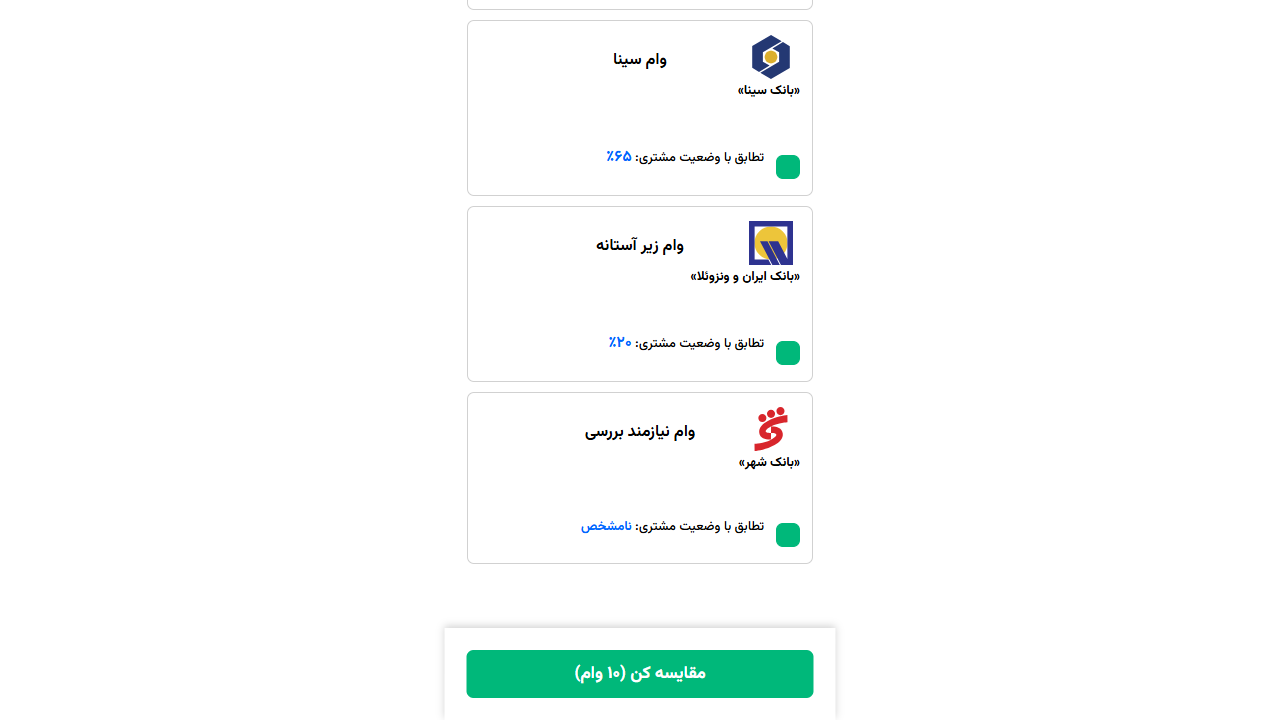
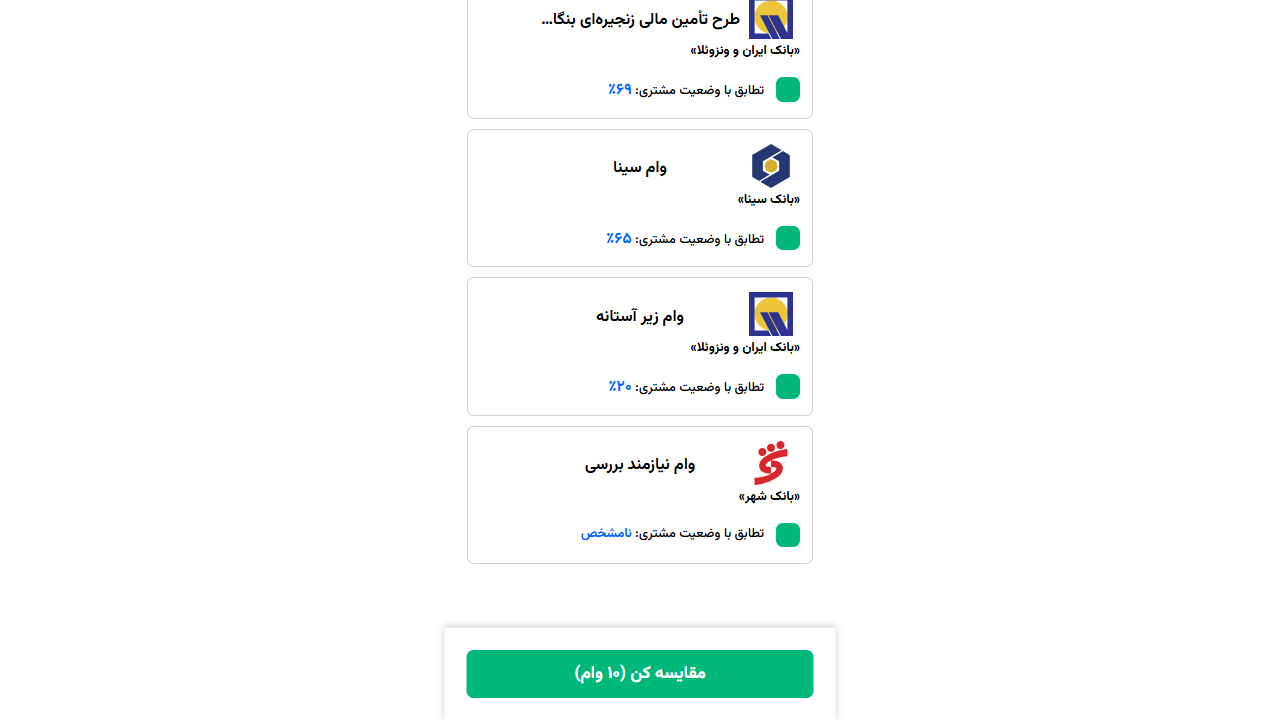
fix(US-09.T06H): align comparison card content

Changed region(s): [[0.4375, 0.1833, 0.625, 0.7639], [0.4062, 0.0, 0.625, 0.1528], [0.4375, 0.5806, 0.5625, 0.6111]]

diff --git a/src/App.css b/src/App.css
@@ -4904,8 +4904,12 @@ button {
 
 .hp-loan-compare-card {
   position: relative;
+  box-sizing: border-box;
   width: 100%;
   max-width: 100%;
+  height: 138.5px;
+  min-height: 138.5px;
+  padding-bottom: 12px;
   overflow: hidden;
 }
 
@@ -4923,9 +4927,9 @@ button {
 .hp-loan-compare-card .hp-loan-match {
   padding-inline-start: 36px;
   white-space: normal;
-  /* The customer-match row moves from 104.5px to 125px from the card top:
-     a visible 20% downward layout move, with space reserved inside the card. */
-  margin-top: 34px;
+  /* The row alone moves; it is centered with the fixed checkbox without
+     changing the checkbox or the shared comparison-card height. */
+  margin: 7px 0 0;
   transform: none;
 }
 

diff --git a/docs/SHAHAB_PROJECT_DEVELOPMENT_CANONICAL_GUIDE.md b/docs/SHAHAB_PROJECT_DEVELOPMENT_CANONICAL_GUIDE.md
@@ -623,9 +623,9 @@ ERD باید از schema واقعی ساخته یا در CI با آن تطبیق
 
 1. هویت بانک component مشترک با box ثابت logo و نام مستقلِ تکخطی و کامل باشد؛ نام بانک هرگز ellipsis، کوتاه یا دوخطی نشود، نام کوتاه یا بلند مختصات logo را تغییر ندهد و مقدار کامل API نمایش داده شود.
 2. logo با فاصلهٔ ثابت از لبهٔ راست و بالای border کارت anchor و لبهٔ راست آن با نام بانک همتراز شود. عنوان وام مستقل و تکخطی در مرکز کارت بماند و top bounding box آن در همهٔ کارتها ۳۰px از border بالایی باشد؛ فضای آن حداقل عنوان چهارکلمهای مرجع را کامل نشان دهد و فقط عنوان طولانیتر با ellipsis محدود شود، بدون حذف یا بازنویسی داده.
-3. این قرارداد در نتایج high/low/variable، انتخاب مقایسه، نتیجهٔ مقایسه و جزئیات یکسان باشد و در mobile/desktop overflow ایجاد نکند. checkbox انتخاب مقایسه در راست کارت anchor شود، top ردیف «تطابق با وضعیت مشتری» در کارت انتخاب مقایسه از ۱۰۴٫۵px به ۱۲۵px (۲۰٪ پایینتر) برسد، عدد و نماد درصد تطابق ۲۰٪ بزرگتر از متن ردیف باشد و فهرست برای نوار ثابت اقدام فضای انتهایی کافی رزرو کند. بازگشت از نتیجهٔ مقایسه به انتخاب، همان loanIdهای انتخابشده را فقط در حافظهٔ tab فعلی نگه دارد و checkboxهای آنها سبز بمانند؛ ذخیره در URL یا web storage ممنوع است.
+3. این قرارداد در نتایج high/low/variable، انتخاب مقایسه، نتیجهٔ مقایسه و جزئیات یکسان باشد و در mobile/desktop overflow ایجاد نکند. checkbox انتخاب مقایسه در راست کارت anchor شود و بدون تغییر جای/اندازه باقی بماند؛ ارتفاع کارت انتخاب با کارت نتیجهٔ مقایسه برابر باشد و مرکز ردیف «تطابق با وضعیت مشتری» تنها با تغییر layout خودِ متن، حداکثر با اختلاف ۱px با مرکز checkbox همراستا شود. عدد و نماد درصد تطابق ۲۰٪ بزرگتر از متن ردیف باشد و فهرست برای نوار ثابت اقدام فضای انتهایی کافی رزرو کند. بازگشت از نتیجهٔ مقایسه به انتخاب، همان loanIdهای انتخابشده را فقط در حافظهٔ tab فعلی نگه دارد و checkboxهای آنها سبز بمانند؛ ذخیره در URL یا web storage ممنوع است.
 4. logo فقط از asset داخلی و تأییدشده خوانده شود؛ داده، API، migration، scoring و D-005 تغییر نکنند.
-5. E2E با نام بانک/وام کوتاه و بلند، کاملبودن نام بانک، نمایش کامل عنوان چهارکلمهای، ellipsis عنوان بلندتر، top=۳۰px عنوان و top=۱۲۵px ردیف تطابق، رشد ۱٫۲ برابری درصد تطابق، offset راست/بالای logo و راست checkbox را با geometry واقعی مرورگر و تلرانس حداکثر ۱px اثبات کند؛ پنل فیلتر باید بالای کارتها قابل مشاهده/کلیک باشد، کارت دهم بالای نوار ثابت مقایسه کاملاً قابل تعامل بماند، بازگشت از نتیجه checkboxهای انتخابشدهٔ ۲ و ۱۰ وام را در desktop/mobile سبز نگه دارد و آخرین کارت نتیجهٔ مقایسه حداقل ۲۰px تا دکمهٔ ثابت فاصله داشته باشد.
+5. E2E با نام بانک/وام کوتاه و بلند، کاملبودن نام بانک، نمایش کامل عنوان چهارکلمهای، ellipsis عنوان بلندتر، top=۳۰px عنوان، برابر بودن ارتفاع کارت انتخاب/نتیجهٔ مقایسه و همراستایی عمودی متن تطابق/checkbox با تلرانس حداکثر ۱px، رشد ۱٫۲ برابری درصد تطابق و offset راست/بالای logo و راست checkbox را با geometry واقعی مرورگر اثبات کند؛ پنل فیلتر باید بالای کارتها قابل مشاهده/کلیک باشد، کارت دهم بالای نوار ثابت مقایسه کاملاً قابل تعامل بماند، بازگشت از نتیجه checkboxهای انتخابشدهٔ ۲ و ۱۰ وام را در desktop/mobile سبز نگه دارد و آخرین کارت نتیجهٔ مقایسه حداقل ۲۰px تا دکمهٔ ثابت فاصله داشته باشد.
 
 **خارج از scope:** دادهٔ وام، موتور توصیهگر، provider خارجی و deploy واقعی تغییر نمیکند. `docs/project-current-state.md` تا پایان US-09/T07 تغییر نمیکند.
 

diff --git a/docs/ui/loan-route-inventory.md b/docs/ui/loan-route-inventory.md
@@ -35,4 +35,4 @@ All three result partitions use the same card structure. Scores are server-owned
 
 ## Bank identity anchor — T06H
 
-Result, low-match, needs-review, comparison-selection, comparison-result and detail cards share one `BankIdentity` component. Its internal-only approved logo occupies a fixed box anchored from the card's right/top border. The lender name is right-aligned with the logo, always remains complete on one line and is never ellipsized; the centered loan title has a one-line 200px budget that keeps the four-word reference title visible, ellipsizes only longer titles while retaining the complete API value in `title`/accessible text, and its top bounding box is 30px from the card border in every card type. The comparison-result title uses the same 78px title row as the other card headers. Compatibility percentages are 1.2 times the surrounding match text, while declared-interest percentages are unchanged. On comparison-selection cards only, the customer-match row has a 125px top offset, 20% lower than its former 104.5px position, with layout space reserved inside the card. Comparison checkboxes have a fixed right offset independent of either name. When returning from comparison-result, the selected real loan IDs rehydrate the green checkboxes from active-tab React memory only; they are never placed in the URL or web storage. Selection and result lists reserve scroll space for their fixed action bars; the final comparison-result card remains at least 20px from the fixed explanation button. The results controls form the stacking context above the card list, with visible overflow and a small local menu layer, so options remain visible and clickable without disabling the cards or using an arbitrary global z-index. Browser geometry checks compare short and long names and require logo/checkbox offsets to remain within 1px in desktop and mobile layouts.
+Result, low-match, needs-review, comparison-selection, comparison-result and detail cards share one `BankIdentity` component. Its internal-only approved logo occupies a fixed box anchored from the card's right/top border. The lender name is right-aligned with the logo, always remains complete on one line and is never ellipsized; the centered loan title has a one-line 200px budget that keeps the four-word reference title visible, ellipsizes only longer titles while retaining the complete API value in `title`/accessible text, and its top bounding box is 30px from the card border in every card type. The comparison-result title uses the same 78px title row as the other card headers. Compatibility percentages are 1.2 times the surrounding match text, while declared-interest percentages are unchanged. Comparison-selection cards use the same 138.5px height as comparison-result cards; the match-row center and the untouched checkbox center remain aligned within 1px. Comparison checkboxes have a fixed right offset independent of either name. When returning from comparison-result, the selected real loan IDs rehydrate the green checkboxes from active-tab React memory only; they are never placed in the URL or web storage. Selection and result lists reserve scroll space for their fixed action bars; the final comparison-result card remains at least 20px from the fixed explanation button. The results controls form the stacking context above the card list, with visible overflow and a small local menu layer, so options remain visible and clickable without disabling the cards or using an arbitrary global z-index. Browser geometry checks compare short and long names and require logo/checkbox offsets to remain within 1px in desktop and mobile layouts.

diff --git a/CHANGELOG.md b/CHANGELOG.md
@@ -7,7 +7,7 @@ The format follows [Keep a Changelog](https://keepachangelog.com/en/1.1.0/), and
 ## [Unreleased]
 
 ### Added
-- US-09.T06H geometry correction: top نام وام در همهٔ کارتها به ۳۰px از border رسید و row «تطابق با وضعیت مشتری» در انتخاب مقایسه با تغییر واقعی layout به ۱۲۵px (۲۰٪ پایینتر از ۱۰۴٫۵px) منتقل شد؛ E2E این مختصات را کنترل میکند.
+- US-09.T06H comparison-card correction: فقط row «تطابق با وضعیت مشتری» در layout جابهجا شد؛ checkbox دستنخورده ماند، ارتفاع کارت انتخاب با کارت نتیجهٔ مقایسه برابر شد و center متن/checkbox با E2E تا ۱px همراستا کنترل میشود.
 - US-09.T06H comparison return follow-up: بازگشت از نتیجهٔ مقایسه، checkbox وامهای واقعیِ انتخابشده را از حافظهٔ همان tab سبز نگه میدارد؛ URL و web storage برای این انتخابها استفاده نمیشوند و Playwright مسیر بازگشت را کنترل میکند.
 - US-09.T06H compare-result alignment follow-up: عنوان وام در کارت نتیجهٔ مقایسه اکنون از همان title row کارتهای دیگر استفاده میکند؛ آزمون browser برابری مختصات عمودی آن با کارت نتایج را تا تلرانس ۱px کنترل میکند.
 - US-09.T06H typography follow-up: عنوان وام در همهٔ کارتها ۲۰٪ ارتفاع خودش بالاتر رفت، ردیف «تطابق با وضعیت مشتری» در انتخاب مقایسه ۲۰٪ پایینتر قرار گرفت و عدد/نماد درصد تطابق بدون تغییر نرخ بهرهٔ اعلامی ۲۰٪ بزرگتر شد؛ Playwright نسبتهای واقعی geometry و font را در desktop/mobile کنترل میکند.
